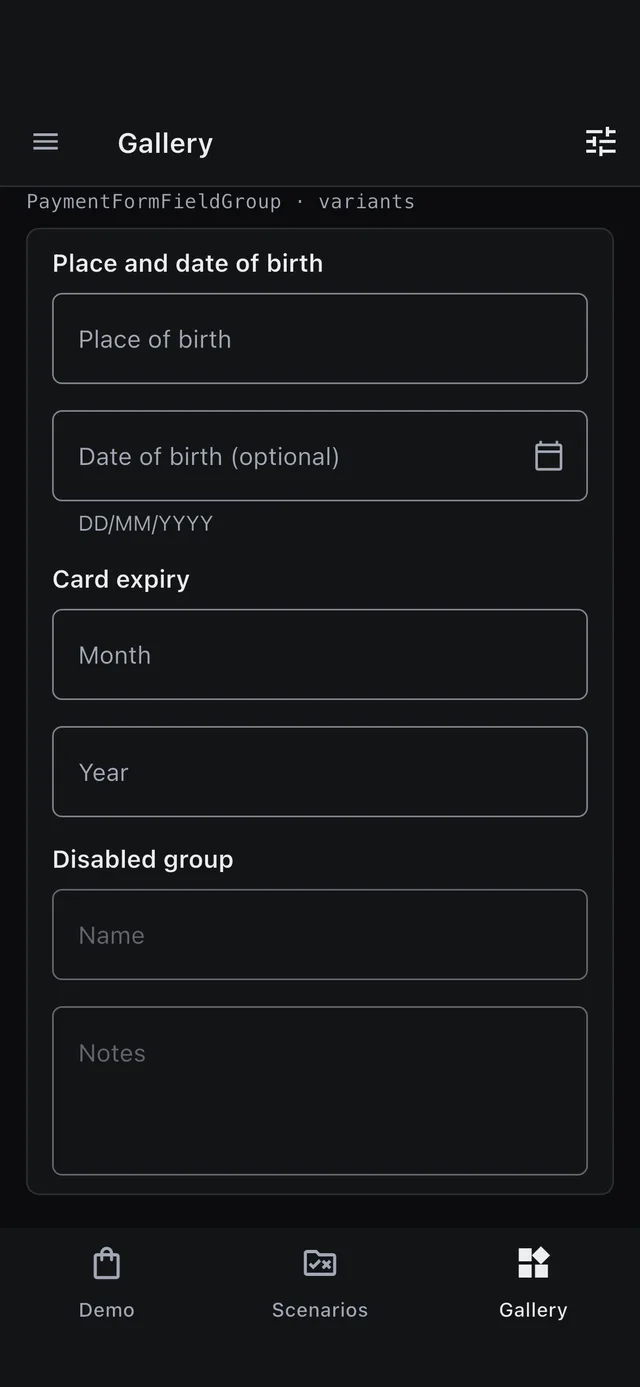
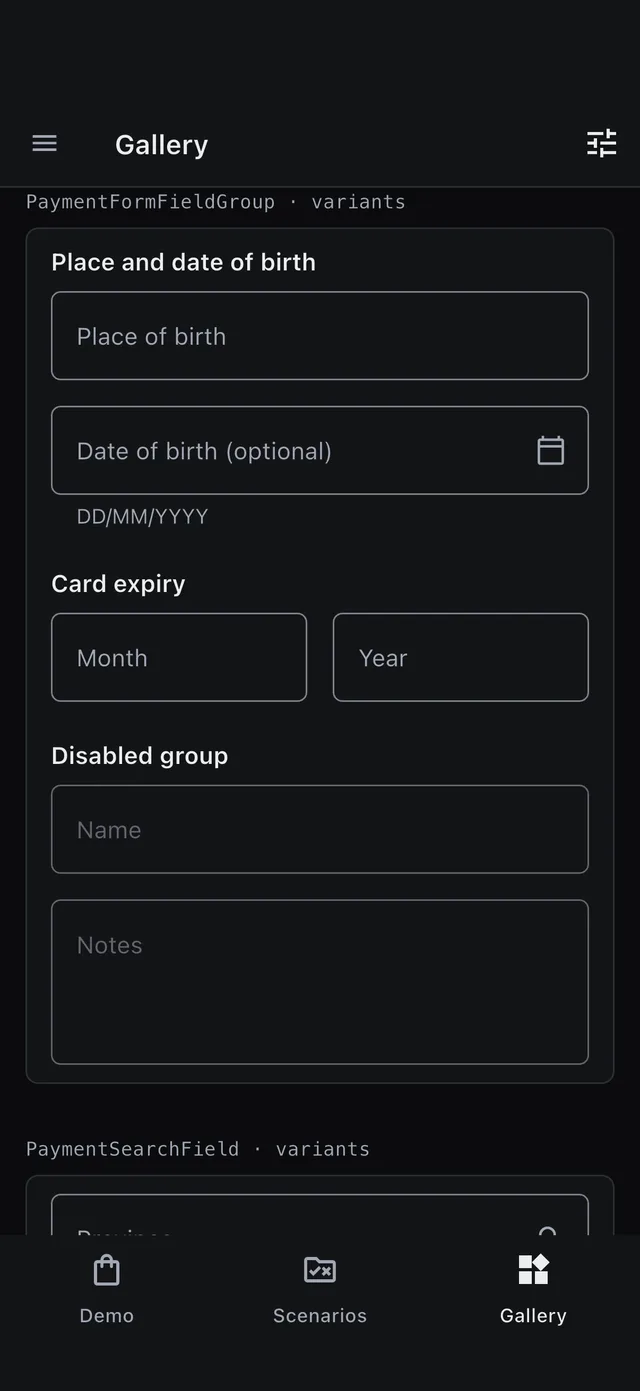
docs(dates): D51/D52/D52a pages, captures, changelog, Q2 default and D36 amendment

diff --git a/docs/prd-foundation-components.md b/docs/prd-foundation-components.md
@@ -1188,14 +1188,14 @@ PaymentCode(String text, {Key? key, PaymentCodeKind kind = PaymentCodeKind.code,
 
 **`PaymentDateField`** (Stripe DateField; D36)
 
-- **Anatomy:** typed entry in `dateInputPattern` (`DD/MM/YYYY`) plus a trailing `PaymentIconButton` (`calendar_today_outlined`) that opens Flutter's `showDatePicker`.
+- **Anatomy:** typed entry in `dateInputPattern` (`DD/MM/YYYY`) plus a trailing `PaymentIconButton` (`calendar_today_outlined`) that opens a kit date sheet with a full-width "Choose date" footer (D52). The sheet is picked by the span (D52a, Q2 default): more than five years (`DateTime(first.year + 5, first.month, first.day)` before `lastDate`) opens a day / month / year wheel at the value or `lastDate`; otherwise a full-height month calendar. No picker parameter. *Supersedes `showDatePicker` (UI review P4).*
 - **Variants:** `value` → `DateTime?` (date only); the field set. Kit: `firstDate`, `lastDate` and `validator`, all host-owned rules (for example, "17 or older for KTP").
 - **States:** empty, partial (still typing; no error), invalid date (kit error "Enter a valid date"), out of range or host rule (host `errorText`), filled.
 - **Payment use:** date of birth in `IdentityForm`.
 
 **`PaymentDateRangePicker`** (Stripe DateRangePicker; D36)
 
-- **Anatomy:** a field showing "1–31 Okt 2026" that opens `showDateRangePicker`, with optional preset chips above the calendar.
+- **Anatomy:** a field showing "1–31 Okt 2026" that opens a presets sheet (radio rows, "Custom range" on the same text column) or, for a custom range, a full-height kit range calendar: scrolling months, two-tap selection with the accent band, "Type dates" in the header, and a pinned footer with the summary, a full-width "Apply" and a quiet "Clear" (D51). *Supersedes `showDateRangePicker` (UI review P4).*
 - **Variants:**
   - `value` (range or preset) → `PaymentDateRange` (`start`, `end`, or a `PaymentDatePreset`).
   - `onChange` → `onChanged`.
@@ -1207,7 +1207,7 @@ PaymentCode(String text, {Key? key, PaymentCodeKind kind = PaymentCodeKind.code,
 
 **`PaymentFormFieldGroup`** (Stripe FormFieldGroup)
 
-- **Variants:** `legend`, `description`, `disabled` (disables every child), `layout: Axis` (Stripe horizontal / vertical). Horizontal falls back to vertical below 360 dp of available width or at large text (B4).
+- **Variants:** `legend`, `description`, `disabled` (disables every child), `layout: Axis` (Stripe horizontal / vertical). Horizontal falls back to vertical when a field would get less than 140 dp (two fields need 296 dp, so Month / Year fit a 329 dp phone card) or at large text (B4; #65, UI review P4). Hosts put `section` (24) between groups and `group` (16) between fields.
 - **Payment use:** place and date of birth in `IdentityForm`; an expiry month and year pair in a specimen.
 - **A11y:** the legend is a header and is read before the first field. A group error is a `PaymentBanner` above the fields, or each field's own error.
 
@@ -1600,7 +1600,7 @@ New in revision 3 (parity; for review):
 | D33 | **Token primitives.** `PaymentBox`, `PaymentInline` and `PaymentIcon` accept only **New** token enums: `PaymentSpace`, `PaymentRadius`, `PaymentTextRole`, `PaymentTextColor`, `PaymentFontWeight`, `PaymentIconSize`, `PaymentKeyline`. Supersedes D16 and D26. `PaymentType` itself gains no roles. | Parity, without opening a raw-value escape hatch that would break B2. |
 | D34 | **Naming.** Stripe entries are `Payment<StripeName>` (Img → `PaymentImage`). Renamed classes on `main` (`ExpandableSection`, `StatusBadge`, `NoticeBanner`, `ActionMenu`/`ActionMenuEntry`, `AmountInput`, `ActionTile`/`ActionTileGroup`, `showPaymentSnackBar`) stay for one minor release: as a `@Deprecated` typedef when the constructor is unchanged, otherwise as a deprecated wrapper. Names only on #1/#4 change freely. Kit-specific names (`InfoRow`, `PaymentSheet` …) stay. Docs slugs follow the Stripe name, with redirects. | One naming scheme that a reader can map to Stripe's sidebar; §9 rule 6 for anything on `main`. |
 | D35 | **Inline roles map onto the nine `PaymentType` roles** (§3.2 table); no new roles. | D15 froze nine roles; `lead` and `kicker` would add looks with no second use. Q11 confirms. |
-| D36 | **Dates.** `PaymentDateField` and `PaymentDateRangePicker` delegate the calendar to Flutter's `showDatePicker` / `showDateRangePicker` and offer typed entry. The kit formats (`formatDate`, en and id) and validates the date's form; the host supplies ranges, presets and rules. No time-zone math. `IdentityFieldSpec` gains **New** `kind` (`text`, `date`, `choice`). Supersedes D4 and Q1. | SDK-only, host-owned business rules; the date of birth gets a real date control. |
+| D36 | **Dates.** `PaymentDateField` and `PaymentDateRangePicker` delegate the calendar to Flutter's `showDatePicker` / `showDateRangePicker` and offer typed entry. The kit formats (`formatDate`, en and id) and validates the date's form; the host supplies ranges, presets and rules. No time-zone math. `IdentityFieldSpec` gains **New** `kind` (`text`, `date`, `choice`). Supersedes D4 and Q1. **Amended by D51/D52/D52a: kit sheets, not Flutter pickers** (UI review P4). | SDK-only, host-owned business rules; the date of birth gets a real date control. |
 | D37 | **`PaymentSearchField<T>` is Stripe's combobox**: it filters host options locally, or the host searches remotely through `onQueryChanged`. Single and `.multiple` selection. `PaymentTextField.search` stays the list filter. | Stripe's SearchField picks values from a list; the history search filters a visible list. Two jobs, two names. |
 | D38 | **Feedback parity.** Badge `urgent` → `PaymentBadge.urgent` (solid danger), with no new `StatusTone`. Banner types map to tones and gain `onDismiss` (host removes it). Toast gains `pending` and a controller with `update` and `dismiss`; the 30-character limit is guidance. | `StatusTone` stays five values, so every exhaustive switch is untouched. A named constructor makes "urgent but not danger" unrepresentable. |
 | D39 | **Charts parity:** `axis`, `grid`, `showLegend`, `inspectable`, `series` (≤ 3; ramp + dash, never tones), `unit` (+ `ChartPoint.measure`), meter `onSegmentPressed` through the legend rows. | Stripe's chart props; the charts decisions (no tone categories, paint-only) still hold. |
@@ -2078,6 +2078,10 @@ The owner accepted every recommendation below on 31 Oct 2026. The parity decisio
 
 **UI review P4: search and date pickers** (D50, D51, D52, D52a; #54, #55, #56, #65)
 - [x] Search: phone full-height sheet with a focused field, 48 dp rows and a multiple-selection Done; wide floating list in an overlay (D50)
+- [x] Kit range calendar sheet: two-tap range, typed entry, pinned summary / Apply / Clear; "Custom range" on the presets' text column (D51)
+- [x] Kit date sheet: wheel for spans over five years, calendar otherwise, full-width Choose date (D52, D52a, Q2 default)
+- [x] `PaymentLocalizations.monthName`, `formatMonthYear`, `formatDateLong`, `weekdayShort`, `firstDayOfWeek`; no `showDatePicker` / `showDateRangePicker` in `lib`
+- [x] Radio group error once; one-line select hint at 200%; field groups side by side at 329 dp, 24 between groups (#65)
 ```
 
 ### Phase 2E implementation notes

diff --git a/docs/decisions.md b/docs/decisions.md
@@ -532,3 +532,9 @@ Problems found in the review are recorded as issues before any work: #45–#50, 
 - **Full-height sheets.** P2's `showKitBottomSheet(fullHeight: true)` sized the sheet but `PaymentSheet` still hugged its content, so a footer floated under short content and a lazy list could not live in its scroll view. A full-height sheet now marks its subtree, a `PaymentSheet` inside it fills and pins its footer, and the internal `KitFullSheet` lays out a fixed header and top, an expanding lazy body and the shared `KitSheetFooter` (the hairline and 16 dp / safe-area padding `PaymentSheet` already used). The search and date sheets have no drag handle, like the confirm and menu sheets.
 - **Search (D50).** On a phone the host `focusNode` sits on the trigger, so `IdentityForm`'s focus-first-error lands there without opening the sheet; the sheet's field has its own node, focused after the first frame. The sheet reads host `options`, `loading` and remote results from a `ValueNotifier` the field updates after each rebuild (a post-frame update, because the sheet lives in another route). The wide list uses `OverlayPortal.overlayChildLayoutBuilder` to sit under the field at its width, inside a `TextFieldTapRegion` so a tap on a row doesn't blur the field first. The sheet starts from `initialQuery` once and from an empty query after that.
 - **Not built.** There is no host search-error row: `PaymentSearchField` has no error-state input, and P4 adds no constructor parameters. A failed remote search shows as no matches, with `errorText` on the field.
+- **Q2 default (owner accepted): wheel or calendar from the span, no new enum.** `PaymentDateField` opens the wheel when `DateTime(firstDate.year + 5, firstDate.month, firstDate.day).isBefore(lastDate)`, which is leap-safe; otherwise the calendar. KYC's date of birth (1900 to today) gets the wheel; the gallery's transfer date (today to 90 days) gets the calendar. Day / month / year only; a month / year wheel waits for a card-expiry use. An explicit picker enum stays out until §9's two real uses exist.
+- **Calendar (D51, D52a).** Built in the kit, because the kit depends only on `flutter` and cannot rely on `MaterialLocalizations` for Indonesian. Weeks start on `PaymentLocalizations.firstDayOfWeek` (Monday in id, Sunday in en), and each day is a focusable 48 dp button. Arrow keys therefore move by a day or a week through Flutter's directional focus, and Enter picks. Each day reads "Selasa, 14 Oktober 2026, hari ini, awal rentang", with the selected flag set. The month list is a lazy `ListView` with exact month heights (`itemExtentBuilder`), so it opens on the value's month without building earlier ones. The range band is the accent at 14% between the ends; on the ends it covers only the half facing the range.
+- **Wheel (D52a).** Three `ListWheelScrollView`s, in the order of `dateInputPattern`, without the magnifier. The item extent is the body line at the current text scale plus 16, so large text grows the wheel instead of clipping it. The day clamps to the month's length. Values outside the range are drawn disabled, and after a fling the columns settle onto the clamped date. Programmatic moves (screen-reader increase / decrease, settling) jump instead of animating under reduced motion. Month names need `PaymentLocalizations.monthName`, a fifth public member next to the four the plan listed: parsing `formatMonthYear` would break on P3's no-break spaces.
+- **Range sheet.** Clear reports `null` and closes, like the presets sheet's "Clear dates". To redo a range, tap again: a tap before the start, or after a complete range, starts over. Apply with only a start reports a one-day range. Typed entry flags a reversed range on the end field and out-of-range dates with "Choose a date from … to …". "Custom range" in the presets sheet is a `PaymentRadio` with a sentinel value that is never the group value: a selected radio ignores taps, and the calendar must reopen to edit a custom range.
+- **#65 form items.** The empty-select height came from the hint: `InputDecorator` keeps the hidden hint's size and, unlike `TextField`, sets no `hintMaxLines`, so a long hint wrapped at 200%. `FieldTrigger` now sets `hintMaxLines: 1`. The field-group rule is 140 dp per field instead of 360 dp per group. The gap between groups lives in the host: `IdentityForm` puts `section` around groups and before its action, and the gallery uses `section` between group specimens. No `PaymentRadioGroup` exists, so the group error follows the documented pattern (last option only) instead of a new API.
+- **Captures.** One catalog session covered the P4 slugs plus `kyc_onboarding` and `history` (folded in from `screenshots_test`, as P2 did with `fees_light`). After inspection the weekday headings touched at 200%; each now has a 2 dp side inset inside a scale-down box, and the affected calendar looks were recaptured.

diff --git a/website/src/content/docs/reference/changelog.md b/website/src/content/docs/reference/changelog.md
@@ -8,6 +8,10 @@ Copied verbatim from `CHANGELOG.md`. Version 0.1.0 is unreleased and not publish
 ## UI review P4 (2026-11-01)
 
 - **Search sheet on phones (D50, #54).** Below 600 dp `PaymentSearchField` is a field trigger that opens a full-height search sheet: a focused search field, 48 dp result rows and, for `.multiple`, the draft chips and a full-width "Done" ("Selesai") that applies them; close discards the draft. Focus returns to the field, and focusing it from code never opens the sheet. At 600 dp and wider the list floats in an overlay with the surface fill, the control edge and elevation instead of pushing the page down. The API is unchanged. **Migration:** a phone-sized test that typed into the field's `EditableText` now taps the field and types into the sheet's.
+- **Kit date sheets (D52, D52a, #56).** `PaymentDateField`'s calendar button no longer opens Flutter's `showDatePicker`. It opens a kit sheet with a full-width "Choose date" ("Pilih tanggal"): a day / month / year wheel when `lastDate` is more than five years after `firstDate` (a date of birth), opening at the value or at `lastDate`; otherwise a full-height month calendar. Typed entry stays the primary path, with validation on blur unchanged. The sheets respect large text and use kit colours and en / id strings. **Migration:** tests that look for a `DatePickerDialog` find a `BottomSheet`; tap a day by its spoken date and then "Choose date". Hosts no longer need `GlobalMaterialLocalizations` for Indonesian calendar labels. Pass `lastDate: today` for a date of birth.
+- **Kit range calendar (D51, #55).** "Custom range" no longer opens `showDateRangePicker`. It opens a full-height sheet with scrolling months: the first tap sets the start, the second the end, and the range shows in the accent. "Type dates" in the header switches to two typed fields. The pinned footer shows the range, a full-width "Apply" ("Terapkan") and a quiet "Clear" ("Hapus") that reports `null`. Weeks start on Monday in Indonesian. "Custom range" in the presets sheet is now a radio row on the presets' text column. **Migration:** pass `lastDate: today` for history ranges; tests that tapped the Material "Save" now tap "Apply".
+- **New `PaymentLocalizations` members.** `monthName(int)`, `formatMonthYear(DateTime)`, `formatDateLong(DateTime)`, `weekdayShort(int)` and `firstDayOfWeek`. Additive.
+- **Form items (#65).** An empty `PaymentSelect` keeps its hint on one line, so it matches its siblings' height at 200%. A horizontal `PaymentFormFieldGroup` stays side by side while each field gets 140 dp (it was 360 dp for the whole group), so Month / Year fit a phone card. `IdentityForm` puts 24 dp around field groups and before its action. A radio group's error goes on the last option only (documented on `PaymentRadio.errorText`).
 
 ## UI review P3 (2026-11-01)
 

diff --git a/CHANGELOG.md b/CHANGELOG.md
@@ -1,6 +1,10 @@
 ## UI review P4 (2026-11-01)
 
 - **Search sheet on phones (D50, #54).** Below 600 dp `PaymentSearchField` is a field trigger that opens a full-height search sheet: a focused search field, 48 dp result rows and, for `.multiple`, the draft chips and a full-width "Done" ("Selesai") that applies them; close discards the draft. Focus returns to the field, and focusing it from code never opens the sheet. At 600 dp and wider the list floats in an overlay with the surface fill, the control edge and elevation instead of pushing the page down. The API is unchanged. **Migration:** a phone-sized test that typed into the field's `EditableText` now taps the field and types into the sheet's.
+- **Kit date sheets (D52, D52a, #56).** `PaymentDateField`'s calendar button no longer opens Flutter's `showDatePicker`. It opens a kit sheet with a full-width "Choose date" ("Pilih tanggal"): a day / month / year wheel when `lastDate` is more than five years after `firstDate` (a date of birth), opening at the value or at `lastDate`; otherwise a full-height month calendar. Typed entry stays the primary path, with validation on blur unchanged. The sheets respect large text and use kit colours and en / id strings. **Migration:** tests that look for a `DatePickerDialog` find a `BottomSheet`; tap a day by its spoken date and then "Choose date". Hosts no longer need `GlobalMaterialLocalizations` for Indonesian calendar labels. Pass `lastDate: today` for a date of birth.
+- **Kit range calendar (D51, #55).** "Custom range" no longer opens `showDateRangePicker`. It opens a full-height sheet with scrolling months: the first tap sets the start, the second the end, and the range shows in the accent. "Type dates" in the header switches to two typed fields. The pinned footer shows the range, a full-width "Apply" ("Terapkan") and a quiet "Clear" ("Hapus") that reports `null`. Weeks start on Monday in Indonesian. "Custom range" in the presets sheet is now a radio row on the presets' text column. **Migration:** pass `lastDate: today` for history ranges; tests that tapped the Material "Save" now tap "Apply".
+- **New `PaymentLocalizations` members.** `monthName(int)`, `formatMonthYear(DateTime)`, `formatDateLong(DateTime)`, `weekdayShort(int)` and `firstDayOfWeek`. Additive.
+- **Form items (#65).** An empty `PaymentSelect` keeps its hint on one line, so it matches its siblings' height at 200%. A horizontal `PaymentFormFieldGroup` stays side by side while each field gets 140 dp (it was 360 dp for the whole group), so Month / Year fit a phone card. `IdentityForm` puts 24 dp around field groups and before its action. A radio group's error goes on the last option only (documented on `PaymentRadio.errorText`).
 
 ## UI review P3 (2026-11-01)
 
